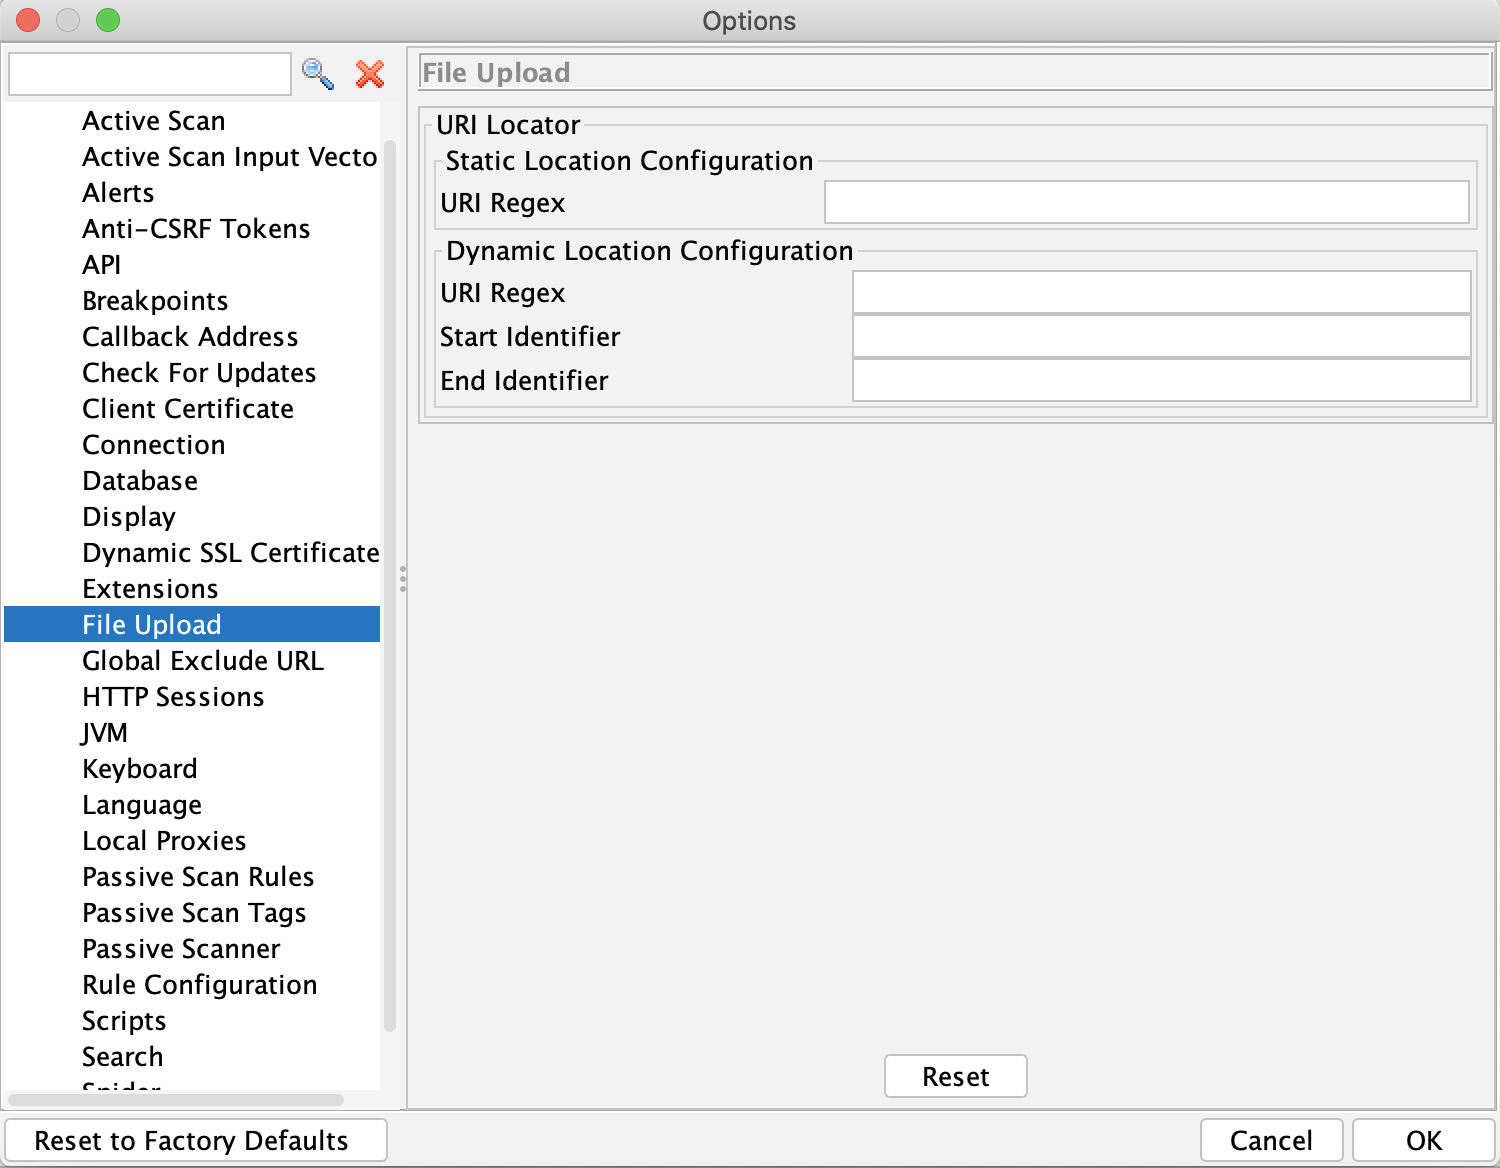
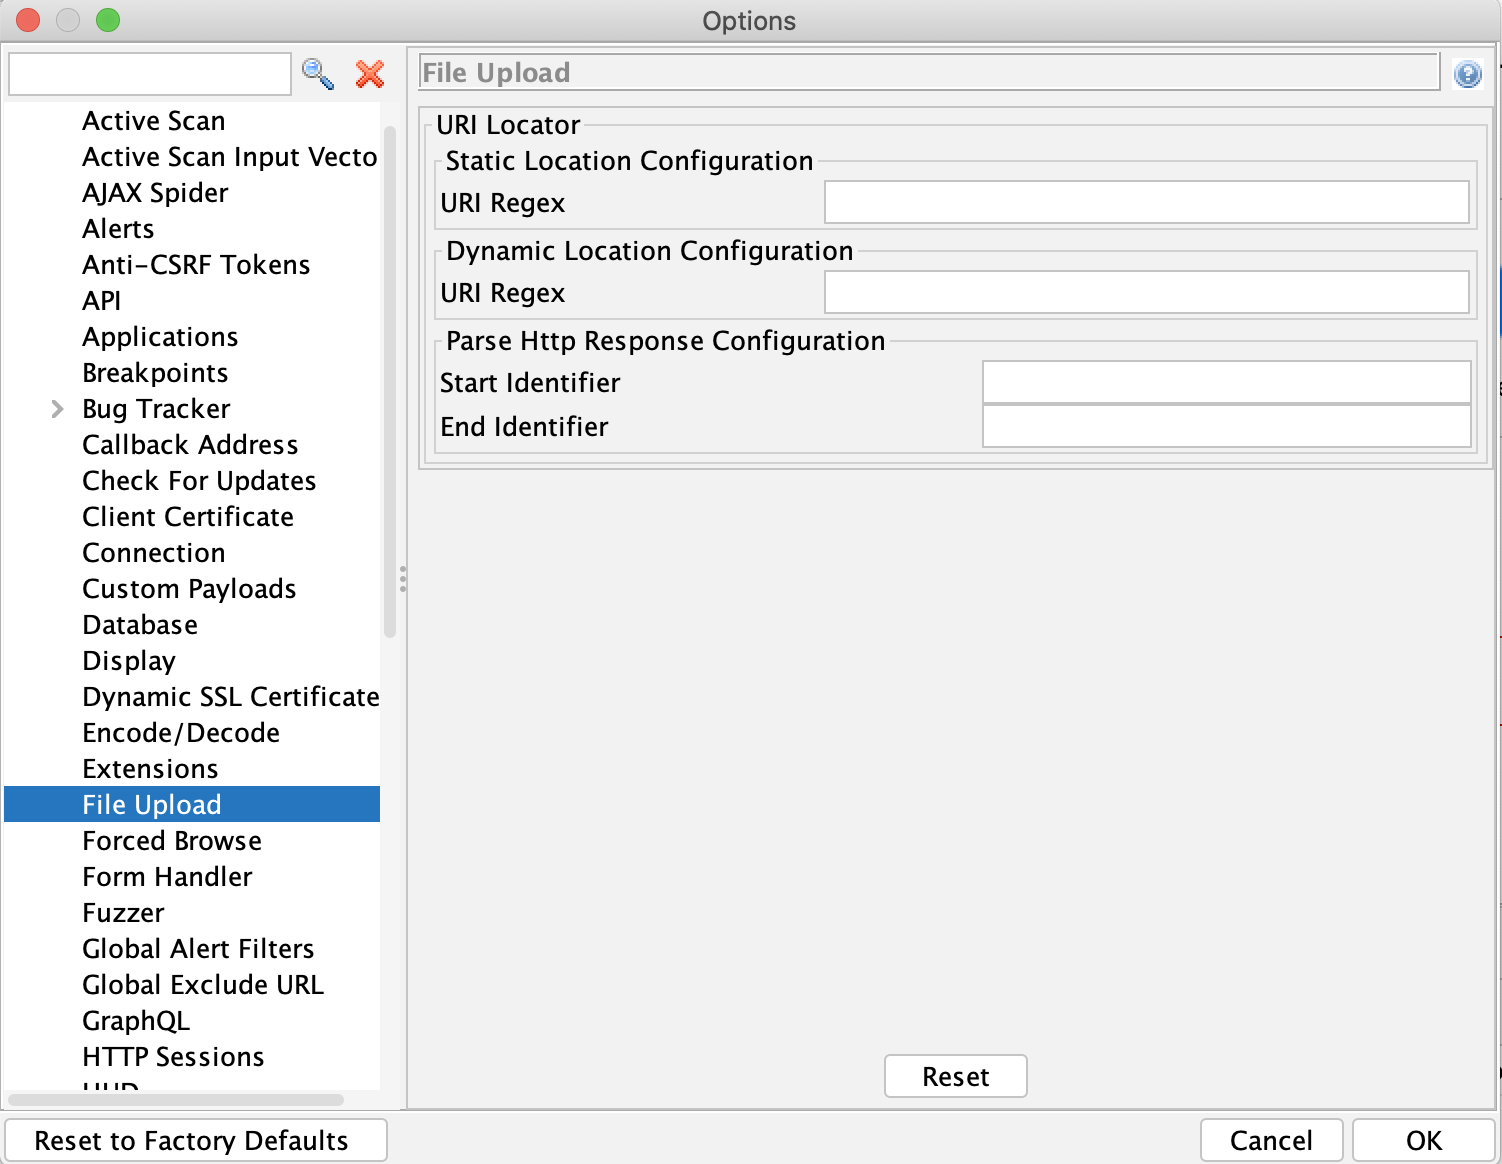
Incorporating review comments

Changed region(s): [[0.0, 0.0309, 1.0, 1.0], [0.46, 0.0, 0.5213, 0.0309]]

diff --git a/src/main/javahelp/org/sasanlabs/fileupload/resources/help/contents/fileupload.html b/src/main/javahelp/org/sasanlabs/fileupload/resources/help/contents/fileupload.html
@@ -1,0 +1,56 @@
+<!DOCTYPE html PUBLIC "-//W3C//DTD HTML 3.2 Final//EN">
+<HTML>
+<HEAD>
+<TITLE>
+FileUpload addon
+</TITLE>
+</HEAD>
+<BODY>
+<H1>FileUpload</H1>
+This is a File Upload addon which is used to find the vulnerabilities in File Upload functionality.
+<p>
+<H3>Why this addon is needed</H3>
+File upload is becoming a more and more essential part of any application, 
+where the user is able to upload their photo, their CV, or a video showcasing a 
+project they are working on. The application should be able to fend off bogus and
+malicious files in a way to keep the application and the users safe. 
+Generally file upload functionality is quite complex to automate and has huge 
+attack surface hence there is a need to automate the process and also secure it.
+
+<H3>Configuration</H3>
+File upload functionality generally has 2 endpoints, one from where file is uploaded and one 
+from where file is retrieved. It is necessary to know both these endpoints. 
+While Active Scanning an application, file upload endpoint is already known but retrieval 
+endpoint is not known to the scan rule hence there are configuration details specific 
+to the retrieval endpoint.
+
+<H3>Explanation about Options Panel</H3>
+For finding the URL to retrieve/view the uploaded file, here are following options:
+<OL>
+<LI>
+In some applications the URL to retrieve the uploaded file is static and doesn't change or 
+only the file name is changed. For handling this type of configuration, 
+options panel has <B>Static Location Configuration</B> where 
+static URL is added into URI Regex field. URI Regex field also supports the dynamic file name 
+by <B>${fileName}</B>. parameter, for e.g. http://<baseurl>/${fileName}
+</LI>
+<LI>
+In some applications the URL to retrieve the uploaded file is present in the file upload request's response.
+For handling this type of configuration, options panel has <B>Parse Http Response Configuration</B> 
+which has 2 parameters <B>Start Identifier</B> and <B>End Identifier</B>. 
+These identifiers are used to locate the URL within the response.
+</LI>
+<LI>
+In some applications the URL to retrieve the uploaded file is present in the response of a different URL which is called a 
+<B>preflight request</B>. E.g. Profile picture URL is part of profile page and 
+hence we need to parse the response of the profile page to find the URL of the profile picture. 
+For handling this type of configuration, the options panel has <B>Dynamic Location Configuration</B> 
+which has a <B>URI Regex</B> and <B>Parse Http Response Configuration</B> which has <B>Start Identifier</B> and <B>End Identifier</B>. 
+So the File Upload add-on will invoke the URI mentioned in URI Regex and 
+then parse the response using Start Identifier and End Identifier. URI Regex field also 
+supports the dynamic file name by ${fileName}
+</LI>
+</OL>
+
+</BODY>
+</HTML>

diff --git a/src/main/java/org/sasanlabs/fileupload/ui/FileUploadOptionsPanel.java b/src/main/java/org/sasanlabs/fileupload/ui/FileUploadOptionsPanel.java
@@ -49,8 +49,8 @@ public class FileUploadOptionsPanel extends AbstractParamPanel {
     // UI components
     private JTextField staticLocationConfigurationURIRegex;
     private JTextField dynamicLocationConfigurationURIRegex;
-    private JTextField dynamicLocationConfigurationStartIdentifier;
-    private JTextField dynamicLocationConfigurationEndIdentifier;
+    private JTextField parseResponseStartIdentifier;
+    private JTextField parseResponseEndIdentifier;
 
     public FileUploadOptionsPanel() {
         super();
@@ -139,39 +139,50 @@ public class FileUploadOptionsPanel extends AbstractParamPanel {
                 dynamicLocationConfigurationGridBagConstriants);
         dynamicLocationConfigurationGridBagConstriants.gridy++;
         dynamicLocationConfigurationGridBagConstriants.gridx = 0;
-
-        JLabel dynamicLocationConfigurationStartIdentifierLabel =
-                new JLabel(
-                        FileUploadI18n.getMessage(
-                                "fileupload.settings.urilocator.dynamiclocation.startidentifer"));
-        dynamicLocationConfigurationPanel.add(
-                dynamicLocationConfigurationStartIdentifierLabel,
-                dynamicLocationConfigurationGridBagConstriants);
-        dynamicLocationConfigurationGridBagConstriants.gridx++;
-        dynamicLocationConfigurationStartIdentifier = new JTextField();
-        dynamicLocationConfigurationURIRegex.setColumns(15);
-        dynamicLocationConfigurationPanel.add(
-                dynamicLocationConfigurationStartIdentifier,
-                dynamicLocationConfigurationGridBagConstriants);
-        dynamicLocationConfigurationGridBagConstriants.gridy++;
-        dynamicLocationConfigurationGridBagConstriants.gridx = 0;
-
-        JLabel dynamicLocationConfigurationEndIdentifierLabel =
-                new JLabel(
-                        FileUploadI18n.getMessage(
-                                "fileupload.settings.urilocator.dynamiclocation.endidentifer"));
-        dynamicLocationConfigurationPanel.add(
-                dynamicLocationConfigurationEndIdentifierLabel,
-                dynamicLocationConfigurationGridBagConstriants);
-        dynamicLocationConfigurationGridBagConstriants.gridx++;
-        dynamicLocationConfigurationEndIdentifier = new JTextField();
-        dynamicLocationConfigurationURIRegex.setColumns(15);
-        dynamicLocationConfigurationPanel.add(
-                dynamicLocationConfigurationEndIdentifier,
-                dynamicLocationConfigurationGridBagConstriants);
-        dynamicLocationConfigurationGridBagConstriants.gridy++;
-        dynamicLocationConfigurationGridBagConstriants.gridx = 0;
         return dynamicLocationConfigurationPanel;
+    }
+
+    private JPanel parseResponseConfiguration() {
+        TitledBorder parseResponseConfigurationPanelBorder =
+                new TitledBorder(
+                        FileUploadI18n.getMessage(
+                                "fileupload.settings.urilocator.parseresponseconfiguration.title"));
+        JPanel parseResponseConfigurationPanel = new JPanel();
+        GridBagLayout gridBagLayout = new GridBagLayout();
+        parseResponseConfigurationPanel.setLayout(gridBagLayout);
+        parseResponseConfigurationPanel.setBorder(parseResponseConfigurationPanelBorder);
+        GridBagConstraints parseResponseConfigurationGridBagConstriants = getGridBagConstraints();
+
+        JLabel parseResponseConfigurationStartIdentifierLabel =
+                new JLabel(
+                        FileUploadI18n.getMessage(
+                                "fileupload.settings.urilocator.parseresponseconfiguration.startidentifer"));
+        parseResponseConfigurationPanel.add(
+                parseResponseConfigurationStartIdentifierLabel,
+                parseResponseConfigurationGridBagConstriants);
+        parseResponseConfigurationGridBagConstriants.gridx++;
+        parseResponseStartIdentifier = new JTextField();
+        dynamicLocationConfigurationURIRegex.setColumns(15);
+        parseResponseConfigurationPanel.add(
+                parseResponseStartIdentifier, parseResponseConfigurationGridBagConstriants);
+        parseResponseConfigurationGridBagConstriants.gridy++;
+        parseResponseConfigurationGridBagConstriants.gridx = 0;
+
+        JLabel parseResponseConfigurationEndIdentifierLabel =
+                new JLabel(
+                        FileUploadI18n.getMessage(
+                                "fileupload.settings.urilocator.parseresponseconfiguration.endidentifer"));
+        parseResponseConfigurationPanel.add(
+                parseResponseConfigurationEndIdentifierLabel,
+                parseResponseConfigurationGridBagConstriants);
+        parseResponseConfigurationGridBagConstriants.gridx++;
+        parseResponseEndIdentifier = new JTextField();
+        dynamicLocationConfigurationURIRegex.setColumns(15);
+        parseResponseConfigurationPanel.add(
+                parseResponseEndIdentifier, parseResponseConfigurationGridBagConstriants);
+        parseResponseConfigurationGridBagConstriants.gridy++;
+        parseResponseConfigurationGridBagConstriants.gridx = 0;
+        return parseResponseConfigurationPanel;
     }
 
     private JPanel uriLocatorConfiguration() {
@@ -191,6 +202,9 @@ public class FileUploadOptionsPanel extends AbstractParamPanel {
         // Dynamic Configuration
         uriLocatorConfigurationPanel.add(this.dynamicURILocatorConfiguration(), gridBagConstraints);
         gridBagConstraints.gridy++;
+        // Parse Response Configuration
+        uriLocatorConfigurationPanel.add(this.parseResponseConfiguration(), gridBagConstraints);
+        gridBagConstraints.gridy++;
         return uriLocatorConfigurationPanel;
     }
 
@@ -209,8 +223,8 @@ public class FileUploadOptionsPanel extends AbstractParamPanel {
     private void resetOptionsPanel() {
         staticLocationConfigurationURIRegex.setText("");
         dynamicLocationConfigurationURIRegex.setText("");
-        dynamicLocationConfigurationStartIdentifier.setText("");
-        dynamicLocationConfigurationEndIdentifier.setText("");
+        parseResponseStartIdentifier.setText("");
+        parseResponseEndIdentifier.setText("");
     }
 
     @Override
@@ -222,9 +236,9 @@ public class FileUploadOptionsPanel extends AbstractParamPanel {
                 fileUploadConfiguration.getStaticLocationURIRegex());
         dynamicLocationConfigurationURIRegex.setText(
                 fileUploadConfiguration.getDynamicLocationURIRegex());
-        dynamicLocationConfigurationStartIdentifier.setText(
+        parseResponseStartIdentifier.setText(
                 fileUploadConfiguration.getDynamicLocationStartIdentifier());
-        dynamicLocationConfigurationEndIdentifier.setText(
+        parseResponseEndIdentifier.setText(
                 fileUploadConfiguration.getDynamicLocationEndIdentifier());
     }
 
@@ -235,9 +249,9 @@ public class FileUploadOptionsPanel extends AbstractParamPanel {
         boolean isDynamicUrlPresent =
                 StringUtils.isNotEmpty(dynamicLocationConfigurationURIRegex.getText());
         boolean isStartIdentifierPresent =
-                StringUtils.isNotEmpty(dynamicLocationConfigurationStartIdentifier.getText());
+                StringUtils.isNotEmpty(parseResponseStartIdentifier.getText());
         boolean isEndIdentifierPresent =
-                StringUtils.isNotEmpty(dynamicLocationConfigurationEndIdentifier.getText());
+                StringUtils.isNotEmpty(parseResponseEndIdentifier.getText());
 
         if (isStaticUrlPresent
                 && (isDynamicUrlPresent || isStartIdentifierPresent || isEndIdentifierPresent)) {
@@ -248,8 +262,13 @@ public class FileUploadOptionsPanel extends AbstractParamPanel {
                 || (!isStartIdentifierPresent && isEndIdentifierPresent)) {
             throw new IllegalArgumentException(
                     FileUploadI18n.getMessage(
-                            "fileupload.settings.alert.invalid.dynamicconfigutation"));
+                            "fileupload.settings.alert.invalid.httpresponseparseconfiguration"));
         }
+    }
+
+    @Override
+    public String getHelpIndex() {
+        return "ui.dialog.options.fileupload";
     }
 
     @Override
@@ -261,8 +280,8 @@ public class FileUploadOptionsPanel extends AbstractParamPanel {
         fileUploadConfiguration.setDynamicLocationURIRegex(
                 this.dynamicLocationConfigurationURIRegex.getText());
         fileUploadConfiguration.setDynamicLocationStartIdentifier(
-                this.dynamicLocationConfigurationStartIdentifier.getText());
+                this.parseResponseStartIdentifier.getText());
         fileUploadConfiguration.setDynamicLocationEndIdentifier(
-                this.dynamicLocationConfigurationEndIdentifier.getText());
+                this.parseResponseEndIdentifier.getText());
     }
 }

diff --git a/src/main/java/org/sasanlabs/fileupload/FileUploadScanRule.java b/src/main/java/org/sasanlabs/fileupload/FileUploadScanRule.java
@@ -15,7 +15,6 @@ package org.sasanlabs.fileupload;
 
 import java.io.IOException;
 import java.util.List;
-import java.util.concurrent.atomic.AtomicInteger;
 import org.apache.log4j.LogManager;
 import org.apache.log4j.Logger;
 import org.parosproxy.paros.core.scanner.AbstractAppParamPlugin;
@@ -48,36 +47,36 @@ public class FileUploadScanRule extends AbstractAppParamPlugin {
     private static final String REFERENCE = FileUploadI18n.getMessage("fileupload.scanrule.refs");
     private static final Logger LOGGER = LogManager.getLogger(FileUploadScanRule.class);
 
-    private AtomicInteger maxRequestCount;
+    private int maxRequestCount;
 
     @Override
     public void init() {
         switch (this.getAttackStrength()) {
             case LOW:
-                maxRequestCount = new AtomicInteger(30);
+                maxRequestCount = 30;
                 break;
             case MEDIUM:
-                maxRequestCount = new AtomicInteger(60);
+                maxRequestCount = 60;
                 break;
             case HIGH:
-                maxRequestCount = new AtomicInteger(90);
+                maxRequestCount = 90;
                 break;
             case INSANE:
-                maxRequestCount = new AtomicInteger(150);
+                maxRequestCount = 150;
                 break;
             default:
-                maxRequestCount = new AtomicInteger(60);
+                maxRequestCount = 60;
                 break;
         }
     }
 
     @Override
     public boolean isStop() {
-        return super.isStop() || (this.maxRequestCount.get() <= 0);
+        return super.isStop() || (this.maxRequestCount <= 0);
     }
 
     public void decreaseRequestCount() {
-        this.maxRequestCount.getAndDecrement();
+        this.maxRequestCount--;
     }
 
     @Override
@@ -146,7 +145,8 @@ public class FileUploadScanRule extends AbstractAppParamPlugin {
                 .raise();
     }
 
-    public void sendAndRecieve(HttpMessage msg) throws IOException {
+    @Override
+    public void sendAndReceive(HttpMessage msg) throws IOException {
         super.sendAndReceive(msg);
     }
 

diff --git a/src/main/java/org/sasanlabs/fileupload/attacks/AttackVector.java b/src/main/java/org/sasanlabs/fileupload/attacks/AttackVector.java
@@ -165,7 +165,7 @@ public abstract class AttackVector {
         }
         fileUploadScanRule.setParameters(uploadFileMsg, inputVectorBuilder.build());
         try {
-            fileUploadScanRule.sendAndRecieve(uploadFileMsg);
+            fileUploadScanRule.sendAndReceive(uploadFileMsg);
         } catch (IOException ex) {
             throw new FileUploadException("Exception occurred while sending modified message", ex);
         }
@@ -197,7 +197,7 @@ public abstract class AttackVector {
                     this.getUploadedFileHttpMessage(
                             uploadFileMsg,
                             fileUploadAttackExecutor.getOriginalFileName(),
-                            fileUploadAttackExecutor.getFileUploadScanRule()::sendAndRecieve);
+                            fileUploadAttackExecutor.getFileUploadScanRule()::sendAndReceive);
             if (Objects.nonNull(retrieveUploadedFile)
                     && contentMatcher.match(retrieveUploadedFile)) {
                 raiseAlert(

diff --git a/README.md b/README.md
@@ -16,8 +16,8 @@ Under ZAP's Options dialog you will find a File Upload section as shown below:
 For finding the URL to retrieve/view the uploaded file, here are some options:
 1. In some applications the URL to retrieve the uploaded file is static and doesn't change or only the file name is changed. For handling this type of configuration, options panel has `Static Location Configuration` where static URL is added into `URI Regex` field. `URI Regex` field also supports the dynamic file name by `${fileName}`.
 parameter, for e.g. `http://<baseurl>/${fileName}`
-2. In some applications the URL to retrieve the uploaded file is present in the file upload request's response. For handling this type of configuration, options panel has `Dynamic Location Configuration` which has 2 parameters `Start Identifier` and `End Identifier`. These identifiers are used to locate the URL within the response.
-3. In some applications the URL to retrieve the uploaded file is present in the response of a different URL which is called a preflight request. E.g. Profile picture URL is part of profile page and hence we need to parse the response of the profile page to find the URL of the profile picture. For handling this type of configuration, the options panel has `Dynamic Location Configuration` which has a `URI Regex`, `Start Identifier`, and `End Identifier`. So the File Upload add-on will invoke the URI mentioned in `URI Regex` and then parse the response using `Start Identifier` and `End Identifier`. `URI Regex` field also supports the dynamic file name by `${fileName}`
+2. In some applications the URL to retrieve the uploaded file is present in the file upload request's response. For handling this type of configuration, options panel has `Parse Http Response Configuration` which has 2 parameters `Start Identifier` and `End Identifier`. These identifiers are used to locate the URL within the response.
+3. In some applications the URL to retrieve the uploaded file is present in the response of a different URL which is called a preflight request. E.g. Profile picture URL is part of profile page and hence we need to parse the response of the profile page to find the URL of the profile picture. For handling this type of configuration, the options panel has `Dynamic Location Configuration` which has a `URI Regex` and `Parse Http Response Configuration` which has `Start Identifier`, and `End Identifier`. So the File Upload add-on will invoke the URI mentioned in `URI Regex` and then parse the response using `Start Identifier` and `End Identifier`. `URI Regex` field also supports the dynamic file name by `${fileName}`
 
 ### Note:
 This addon fires a lot of requests to the target application hence can impact the performance of the targeted application. So please run this addon in non-prod environment only.
